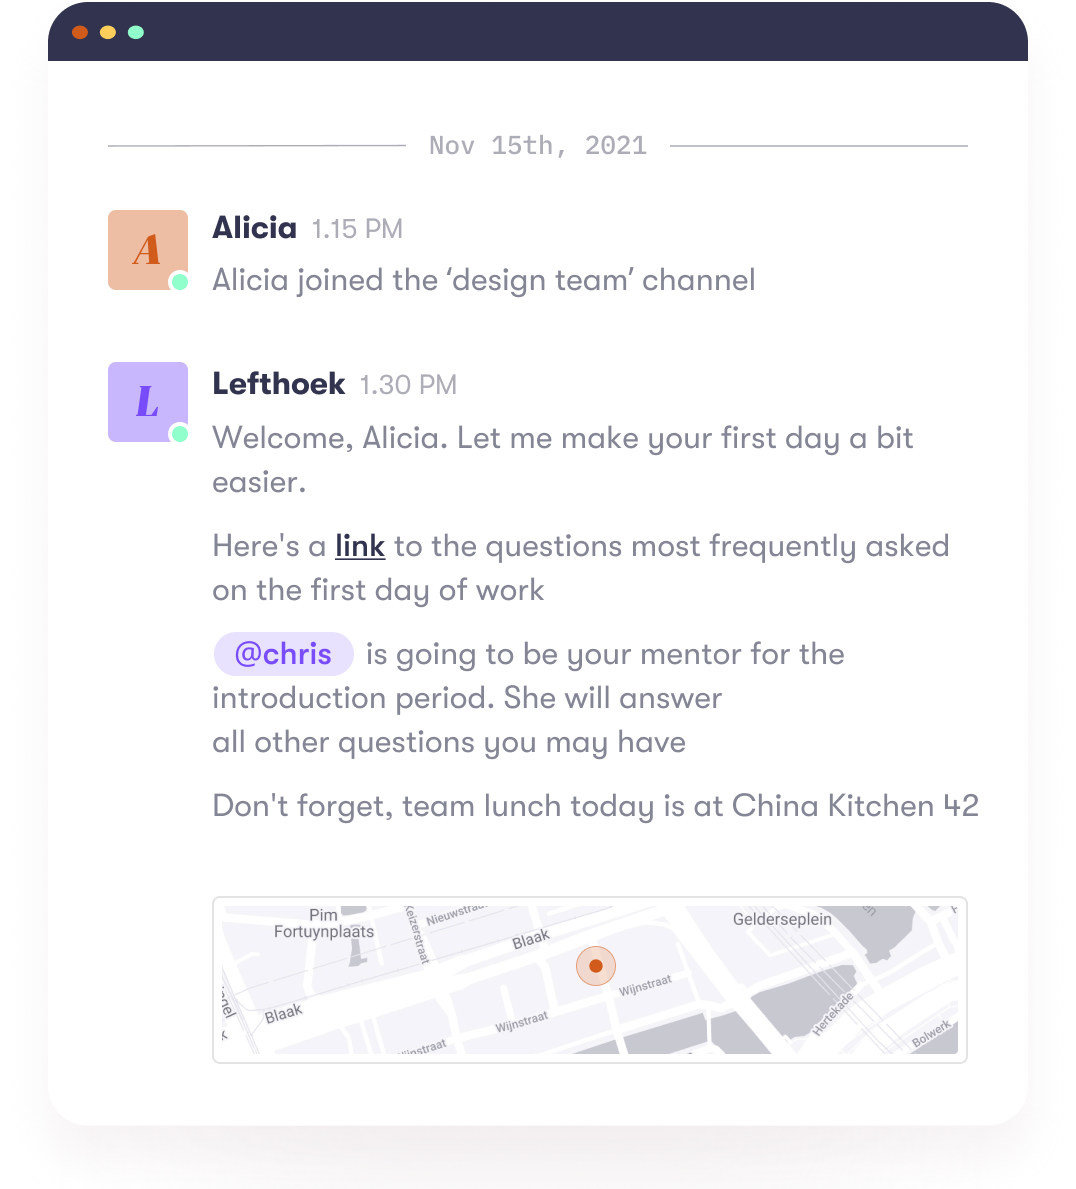
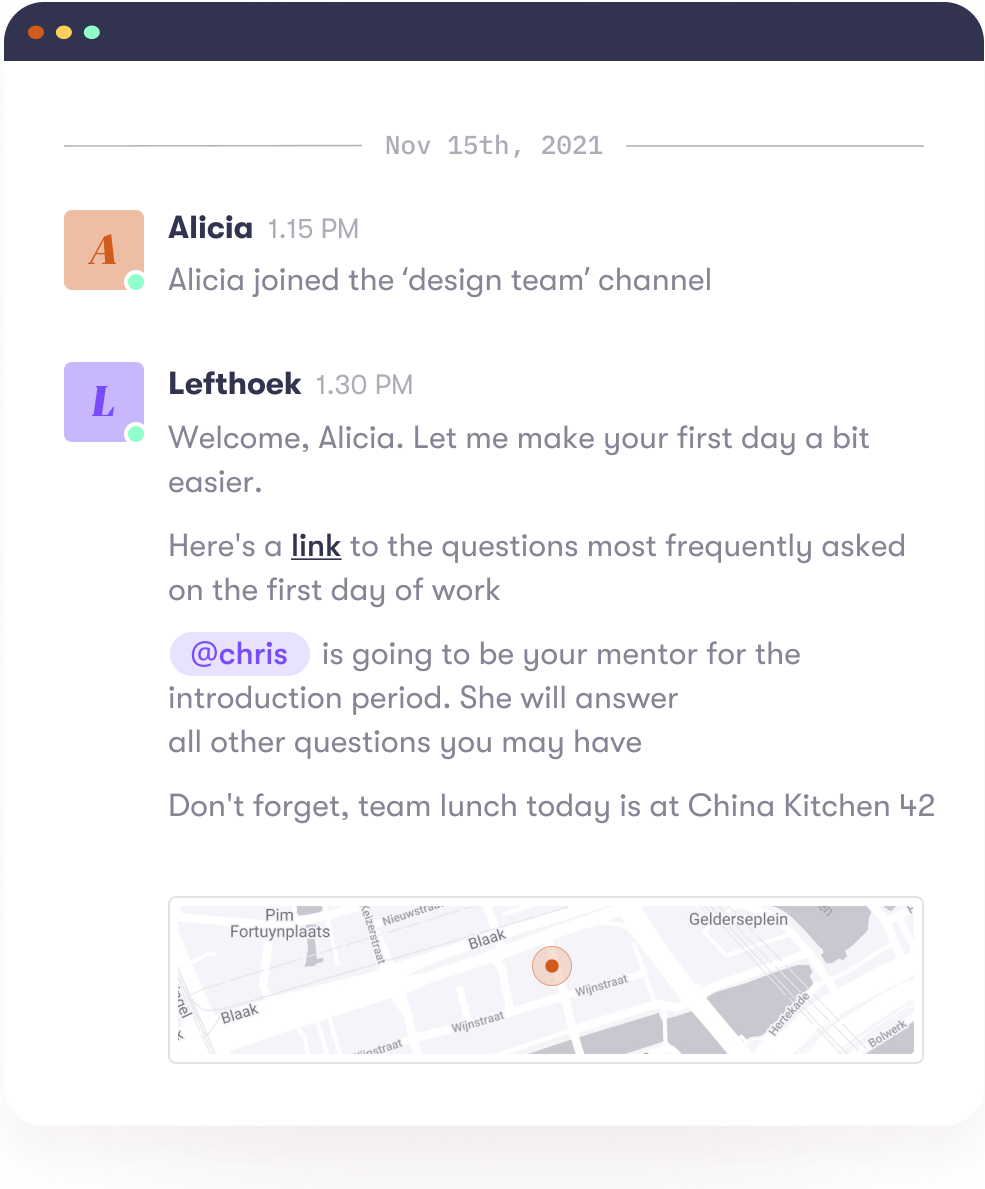
wip: imagess

diff --git a/sites/landing/src/sections/FeaturesSection/FeatureDetail/styles.ts b/sites/landing/src/sections/FeaturesSection/FeatureDetail/styles.ts
@@ -20,6 +20,6 @@ export const textWrapperStyles = {
 
 export const imageWrapperStyles: SxStyleProp = {
   flex: 3,
-  px: 8,
+  px: [0, 8],
 };
 
